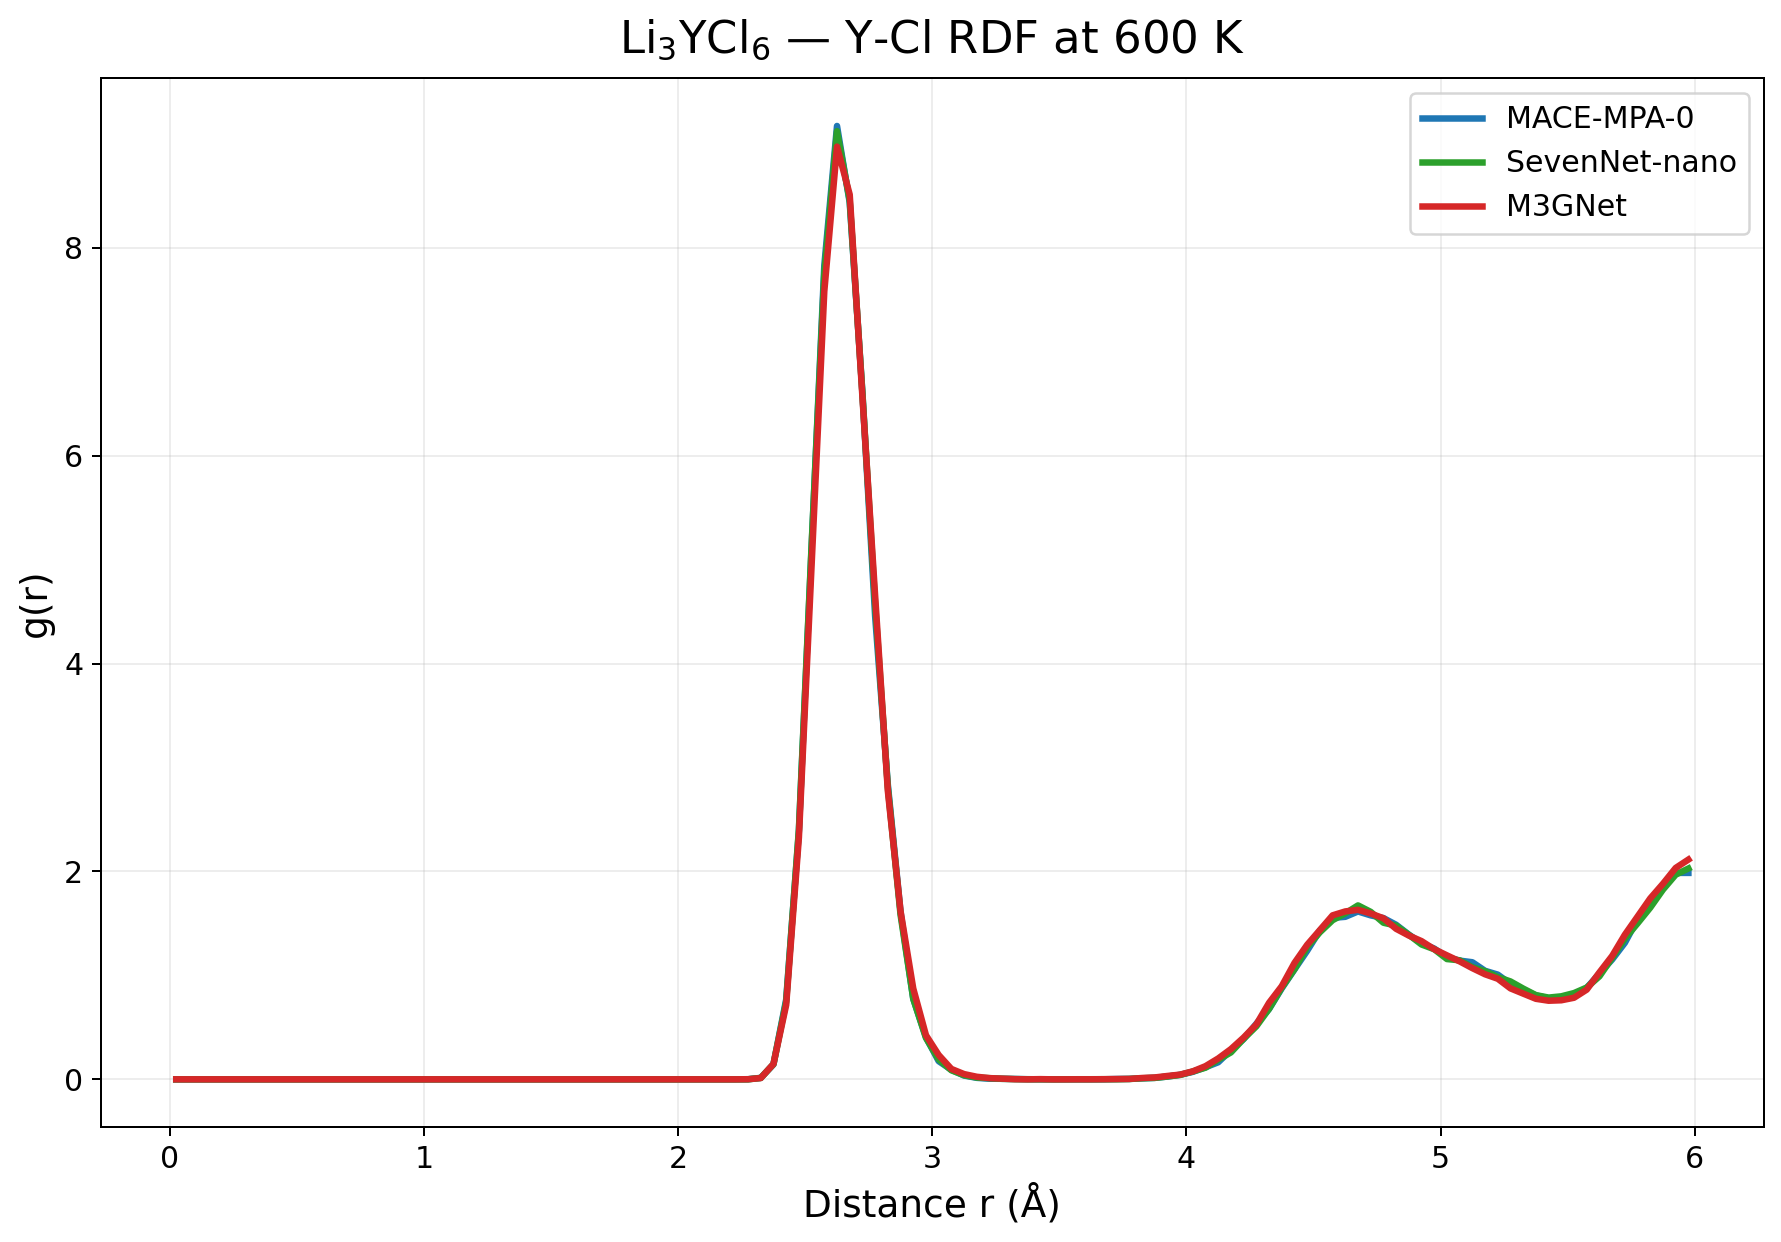
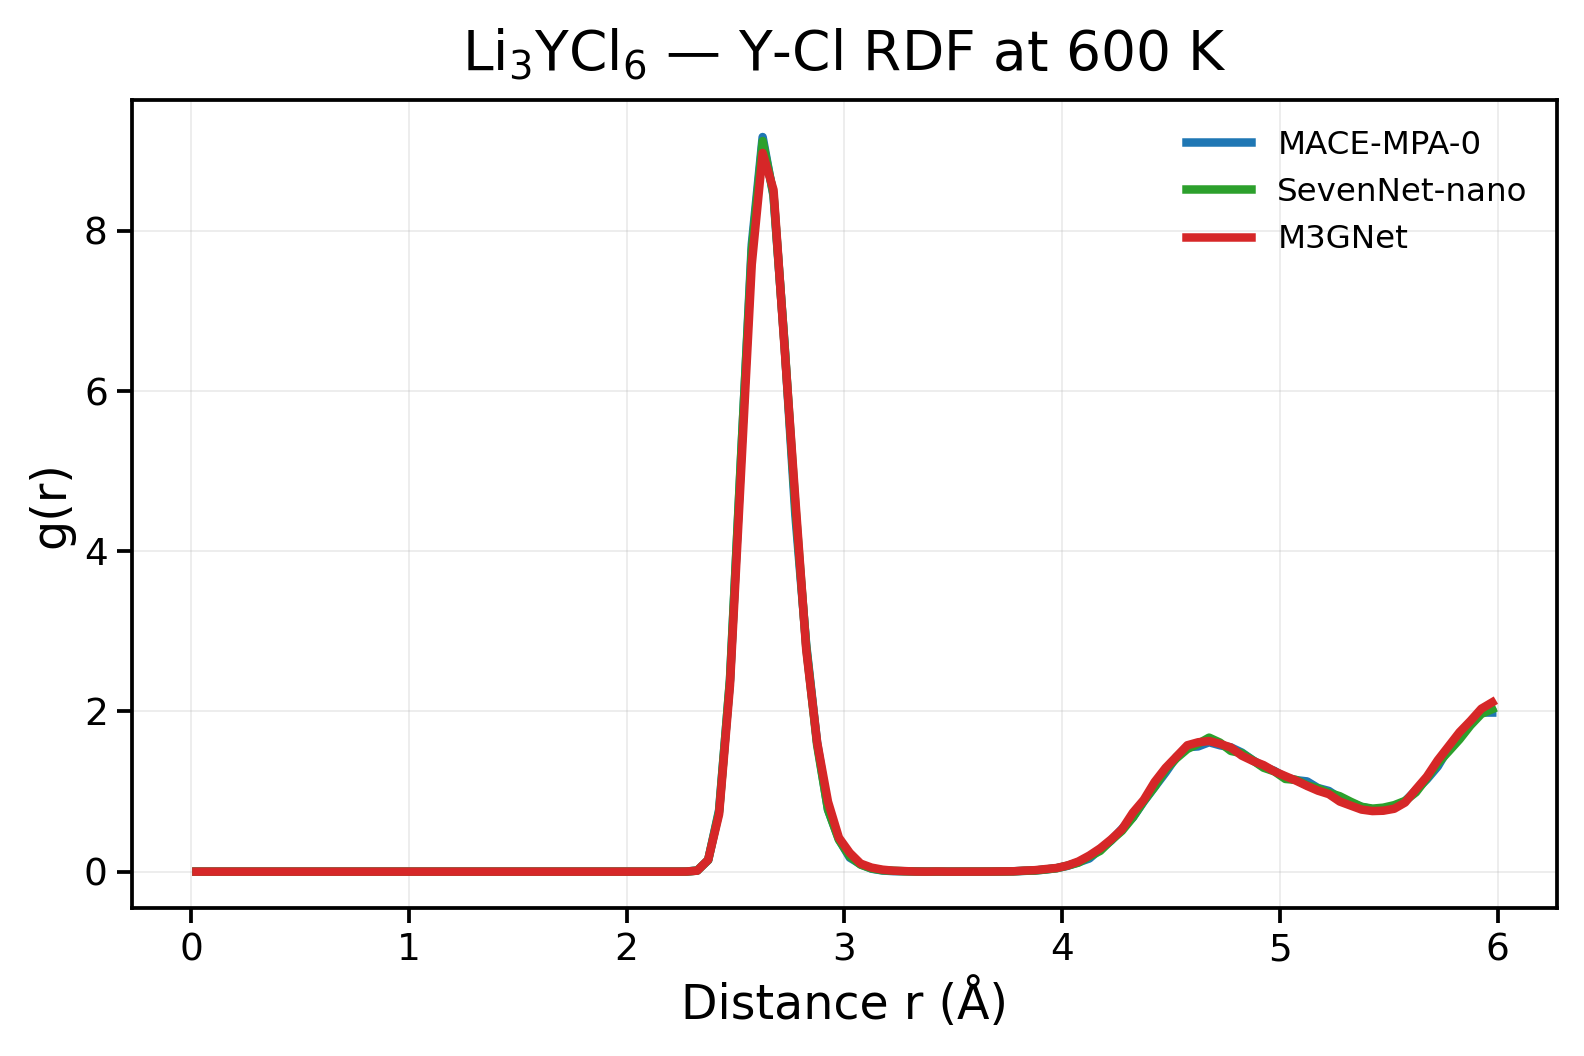
Unify formal RDF figures with MSD style

diff --git a/src/li_research/analysis/rdf/recompute_li3ycl6_rdf.py b/src/li_research/analysis/rdf/recompute_li3ycl6_rdf.py
@@ -27,24 +27,26 @@ OUT = ROOT / "results/midterm_Li3YCl6_MACE_M3GNet/plots"
 def main():
     OUT.mkdir(parents=True, exist_ok=True)
     for pair_name, (a_type, b_type) in PAIRS.items():
-        fig, ax = plt.subplots(figsize=(10, 7), dpi=180)
+        fig, ax = plt.subplots(figsize=(8.8, 5.8667), dpi=180)
         for model, path in TRAJECTORIES.items():
             u = mda.Universe(str(path), format="LAMMPSDUMP")
             ag1 = u.select_atoms(f"type {a_type}")
             ag2 = u.select_atoms(f"type {b_type}")
             rdf = InterRDF(ag1, ag2, nbins=120, range=(0.0, 6.0), norm="rdf")
             rdf.run(start=50, stop=u.trajectory.n_frames, step=1)
-            ax.plot(rdf.results.bins, rdf.results.rdf, lw=2.6, color=COLORS[model], label=model)
+            ax.plot(rdf.results.bins, rdf.results.rdf, lw=3.4, color=COLORS[model], label=model)
             np.savetxt(OUT / f"Li3YCl6_{pair_name.replace('-', '')}_RDF_600K_{model.replace('-', '_')}.csv",
                        np.column_stack([rdf.results.bins, rdf.results.rdf]), delimiter=",", header="r_A,g_r", comments="")
-        ax.set_title(f"Li$_3$YCl$_6$ — {pair_name} RDF at 600 K", fontsize=18, pad=10)
-        ax.set_xlabel("Distance r (Å)", fontsize=15)
-        ax.set_ylabel("g(r)", fontsize=15)
-        ax.tick_params(labelsize=12)
+        ax.set_title(f"Li$_3$YCl$_6$ — {pair_name} RDF at 600 K", fontsize=22, pad=12)
+        ax.set_xlabel("Distance r (Å)", fontsize=19)
+        ax.set_ylabel("g(r)", fontsize=19)
+        ax.tick_params(labelsize=15, width=1.5, length=6)
+        for spine in ax.spines.values():
+            spine.set_linewidth(1.5)
         ax.grid(True, alpha=0.22)
-        ax.legend(fontsize=12, frameon=True)
+        ax.legend(fontsize=13, loc="upper right", frameon=False)
         fig.tight_layout()
-        fig.savefig(OUT / f"Li3YCl6_{pair_name.replace('-', '')}_RDF_600K_all_models.png", bbox_inches="tight")
+        fig.savefig(OUT / f"Li3YCl6_{pair_name.replace('-', '')}_RDF_600K_all_models.png")
         plt.close(fig)
 
 
